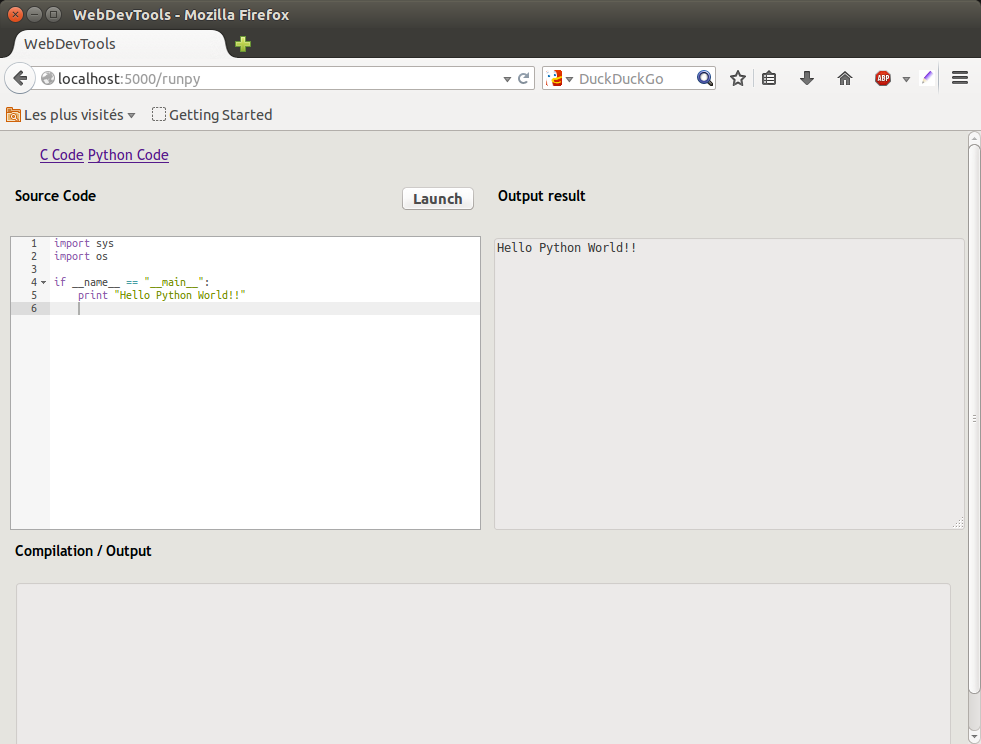
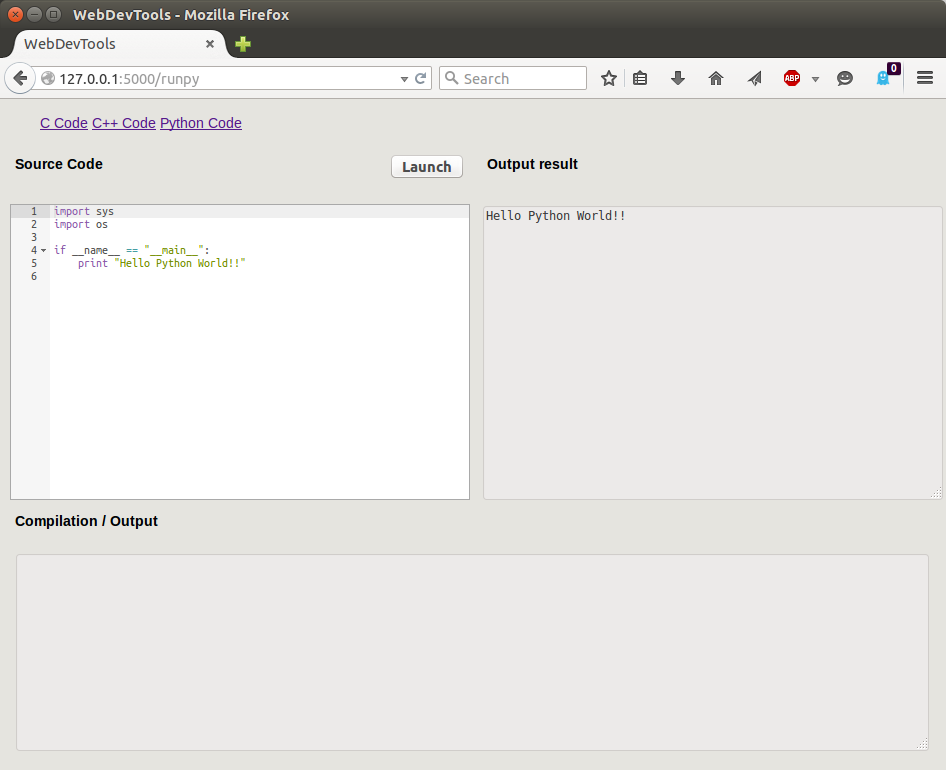
Add C++ management

Changed region(s): [[0.0, 0.0, 1.0, 0.6492], [0.0, 0.6492, 0.4905, 0.7728], [0.981, 0.1855, 1.0, 1.0]]

diff --git a/templates/base.html b/templates/base.html
@@ -9,6 +9,7 @@
 <div id="links">
 <ul>
 <li><a href="/">C Code</a></li>
+<li><a href="/cpp">C++ Code</a></li>
 <li><a href="/py">Python Code</a></li>
 </ul>
 </div>

diff --git a/runcode/runcode.py b/runcode/runcode.py
@@ -40,6 +40,44 @@ class RunCCode(object):
             result_run = self.stdout + self.stderr
         return result_compilation, result_run
 
+
+class RunCppCode(object):
+
+    def __init__(self, code=None):
+        self.code = code
+        self.compiler = "g++"
+        if not os.path.exists('running'):
+            os.mkdir('running')
+
+    def _compile_cpp_code(self, filename, prog="./running/a.out"):
+        cmd = [self.compiler, filename, "-Wall", "-o", prog]
+        p = subprocess.Popen(cmd, stdout=subprocess.PIPE, stderr=subprocess.PIPE)
+        result = p.wait()
+        a, b = p.communicate()
+        self.stdout, self.stderr = a.decode("utf-8"), b.decode("utf-8")
+        return result
+
+    def _run_cpp_prog(self, cmd="./running/a.out"):
+        p = subprocess.Popen(cmd, stdout=subprocess.PIPE, stderr=subprocess.PIPE)
+        result = p.wait()
+        a, b = p.communicate()
+        self.stdout, self.stderr = a.decode("utf-8"), b.decode("utf-8")
+        return result
+
+    def run_cpp_code(self, code=None):
+        filename = "./running/test.cpp"
+        if not code:
+            code = self.code
+        result_run = "No run done"
+        with open(filename, "w") as f:
+            f.write(code)
+        res = self._compile_cpp_code(filename)
+        result_compilation = self.stdout + self.stderr
+        if res == 0:
+            self._run_cpp_prog()
+            result_run = self.stdout + self.stderr
+        return result_compilation, result_run
+
 class RunPyCode(object):
     
     def __init__(self, code=None):

diff --git a/webdev.py b/webdev.py
@@ -11,6 +11,17 @@ int main(int argc, char **argv)
 }    
 """
 
+default_cpp_code = """#include <iostream>
+
+using namespace std;
+
+int main(int argc, char **argv)
+{
+    cout << "Hello C++ World" << endl;
+    return 0;
+}
+"""
+
 default_py_code = """import sys
 import os
 
@@ -37,6 +48,26 @@ def runc():
     return render_template("main.html",
                            code=code,
                            target="runc",
+                           resrun=resrun,
+                           rescomp=rescompil,
+                           rows=default_rows, cols=default_cols)
+
+@app.route("/cpp")
+@app.route("/runcpp", methods=['POST', 'GET'])
+def runcpp():
+    if request.method == 'POST':
+        code = request.form['code']
+        run = runcode.RunCppCode(code)
+        rescompil, resrun = run.run_cpp_code()
+        if not resrun:
+            resrun = 'No result!'
+    else:
+        code = default_cpp_code
+        resrun = 'No result!'
+        rescompil = ''
+    return render_template("main.html",
+                           code=code,
+                           target="runcpp",
                            resrun=resrun,
                            rescomp=rescompil,
                            rows=default_rows, cols=default_cols)

diff --git a/README.rst b/README.rst
@@ -1,7 +1,7 @@
 codelauncher
 ============
 
-A Flask Python server to launch C code and Python code online.
+A Flask Python server to launch C/C++ code and Python code online.
 
 This is a simple, light Flask server that allows you to quickly run C code or Python code.
 It uses only HTML5 and CSS3. No Javascript is needed but if activated the `Ace editor <http://ace.c9.io>`_ is available.
